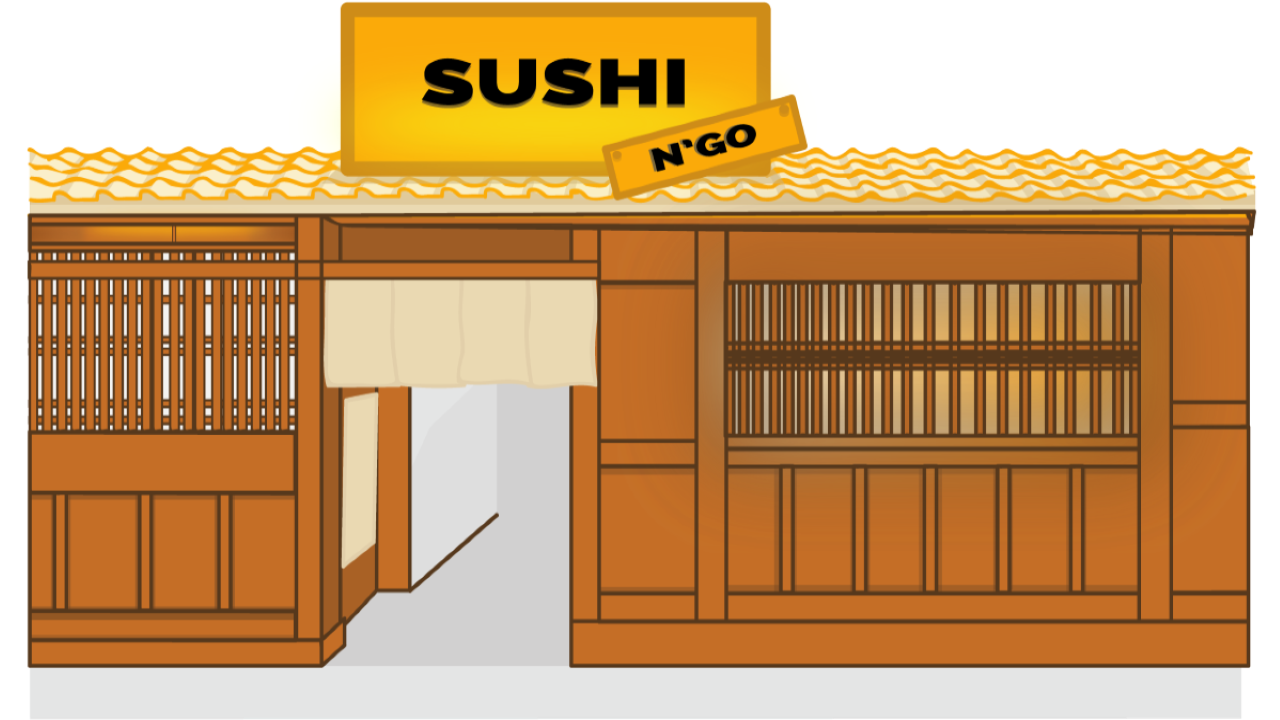
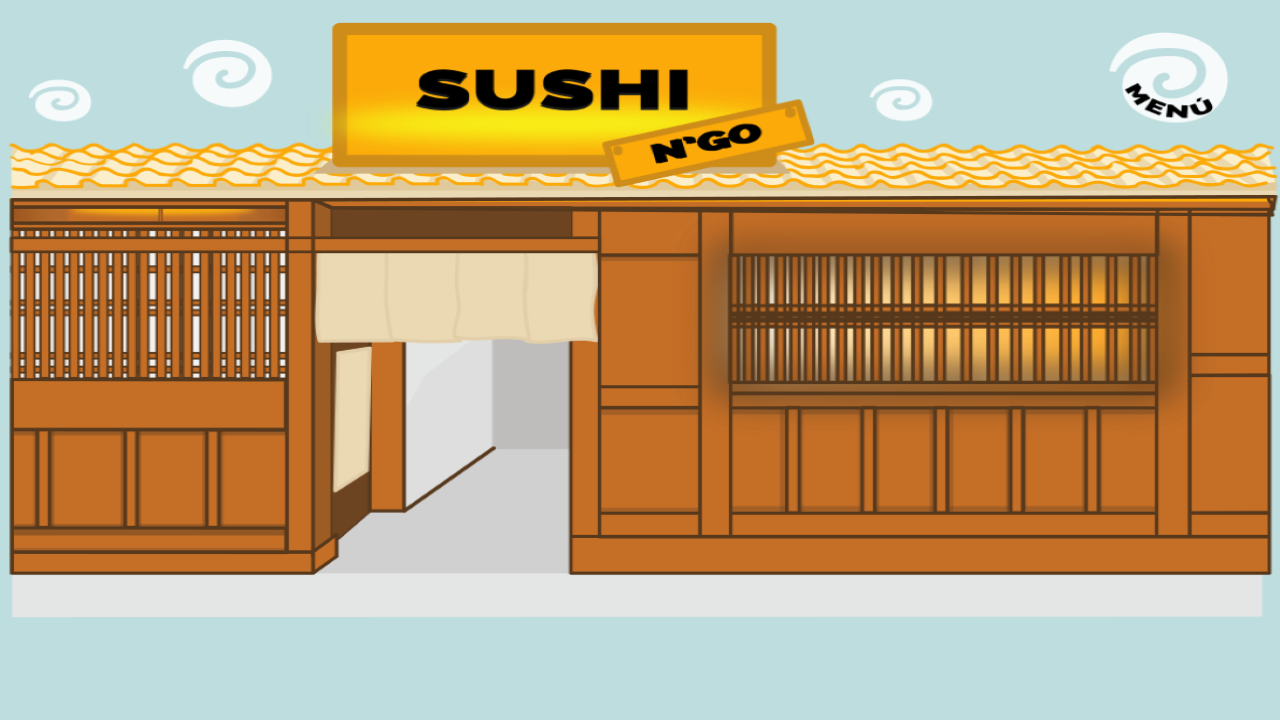
Commit 4 transition menu-credits credits-menu.

diff --git a/core/src/mx/itesm/sushingo/CreditsScreen.java b/core/src/mx/itesm/sushingo/CreditsScreen.java
@@ -11,6 +11,7 @@ import com.badlogic.gdx.scenes.scene2d.InputEvent;
 import com.badlogic.gdx.scenes.scene2d.Stage;
 import com.badlogic.gdx.scenes.scene2d.ui.Image;
 import com.badlogic.gdx.scenes.scene2d.ui.ImageButton;
+import com.badlogic.gdx.scenes.scene2d.ui.Table;
 import com.badlogic.gdx.scenes.scene2d.utils.ActorGestureListener;
 import com.badlogic.gdx.scenes.scene2d.utils.TextureRegionDrawable;
 import com.badlogic.gdx.utils.viewport.FitViewport;
@@ -26,6 +27,7 @@ public class CreditsScreen extends ScreenAdapter {
 
     private Texture menuTexture;
     private Texture menuPressed;
+    private Table table;
 
     public CreditsScreen(Game game) {
         this.game = game;
@@ -37,12 +39,12 @@ public class CreditsScreen extends ScreenAdapter {
         stage = new Stage(new FitViewport(WORLD_WIDTH, WORLD_HEIGHT));
         Gdx.input.setInputProcessor(stage);
 
-        backgroundTexture = new Texture(Gdx.files.internal(""));
+        backgroundTexture = new Texture(Gdx.files.internal("creditos.png"));
         Image background = new Image(backgroundTexture);
         stage.addActor(background);
 
-        menuTexture = new Texture(Gdx.files.internal(""));
-        menuPressed = new Texture(Gdx.files.internal(""));
+        menuTexture = new Texture(Gdx.files.internal("menuBotonNormal.png"));
+        menuPressed = new Texture(Gdx.files.internal("menuBoton.png"));
         ImageButton credits = new ImageButton(new TextureRegionDrawable(new TextureRegion(menuTexture)), new TextureRegionDrawable(new TextureRegion(menuPressed)));
         credits.addListener(new ActorGestureListener() {
             @Override
@@ -52,6 +54,16 @@ public class CreditsScreen extends ScreenAdapter {
                 dispose();
             }
         });
+
+        table = new Table();
+        table.debug();
+
+        table.row();
+        table.setFillParent(true);
+        table.add(credits).right().expandX();
+        table.padBottom(450f);
+
+        stage.addActor(table);
 
     }
 

diff --git a/core/src/mx/itesm/sushingo/TransitionScreen.java b/core/src/mx/itesm/sushingo/TransitionScreen.java
@@ -46,9 +46,9 @@ public class TransitionScreen extends ScreenAdapter {
         stage.addActor(logo);
         logo.getColor().a = 0f;
 
-        background.addAction(sequence(delay(1), fadeOut(1)));
+        background.addAction(sequence(delay(1),fadeIn(1), fadeOut(2)));
 
-        logo.addAction(sequence(delay(1), fadeIn(1),delay(1), fadeOut(1), run(new Runnable() {
+        logo.addAction(sequence(delay(4), fadeIn(2),delay(2), fadeOut(2), run(new Runnable() {
             @Override
             public void run() {
                 game.setScreen(new MainMenu(game));

diff --git a/core/src/mx/itesm/sushingo/MainMenu.java b/core/src/mx/itesm/sushingo/MainMenu.java
@@ -139,7 +139,6 @@ public class MainMenu extends ScreenAdapter {
         super.dispose();
         stage.dispose();
         backgroundTexture.dispose();
-        titleTexture.dispose();
         playTexture.dispose();
         playPressed.dispose();
 
